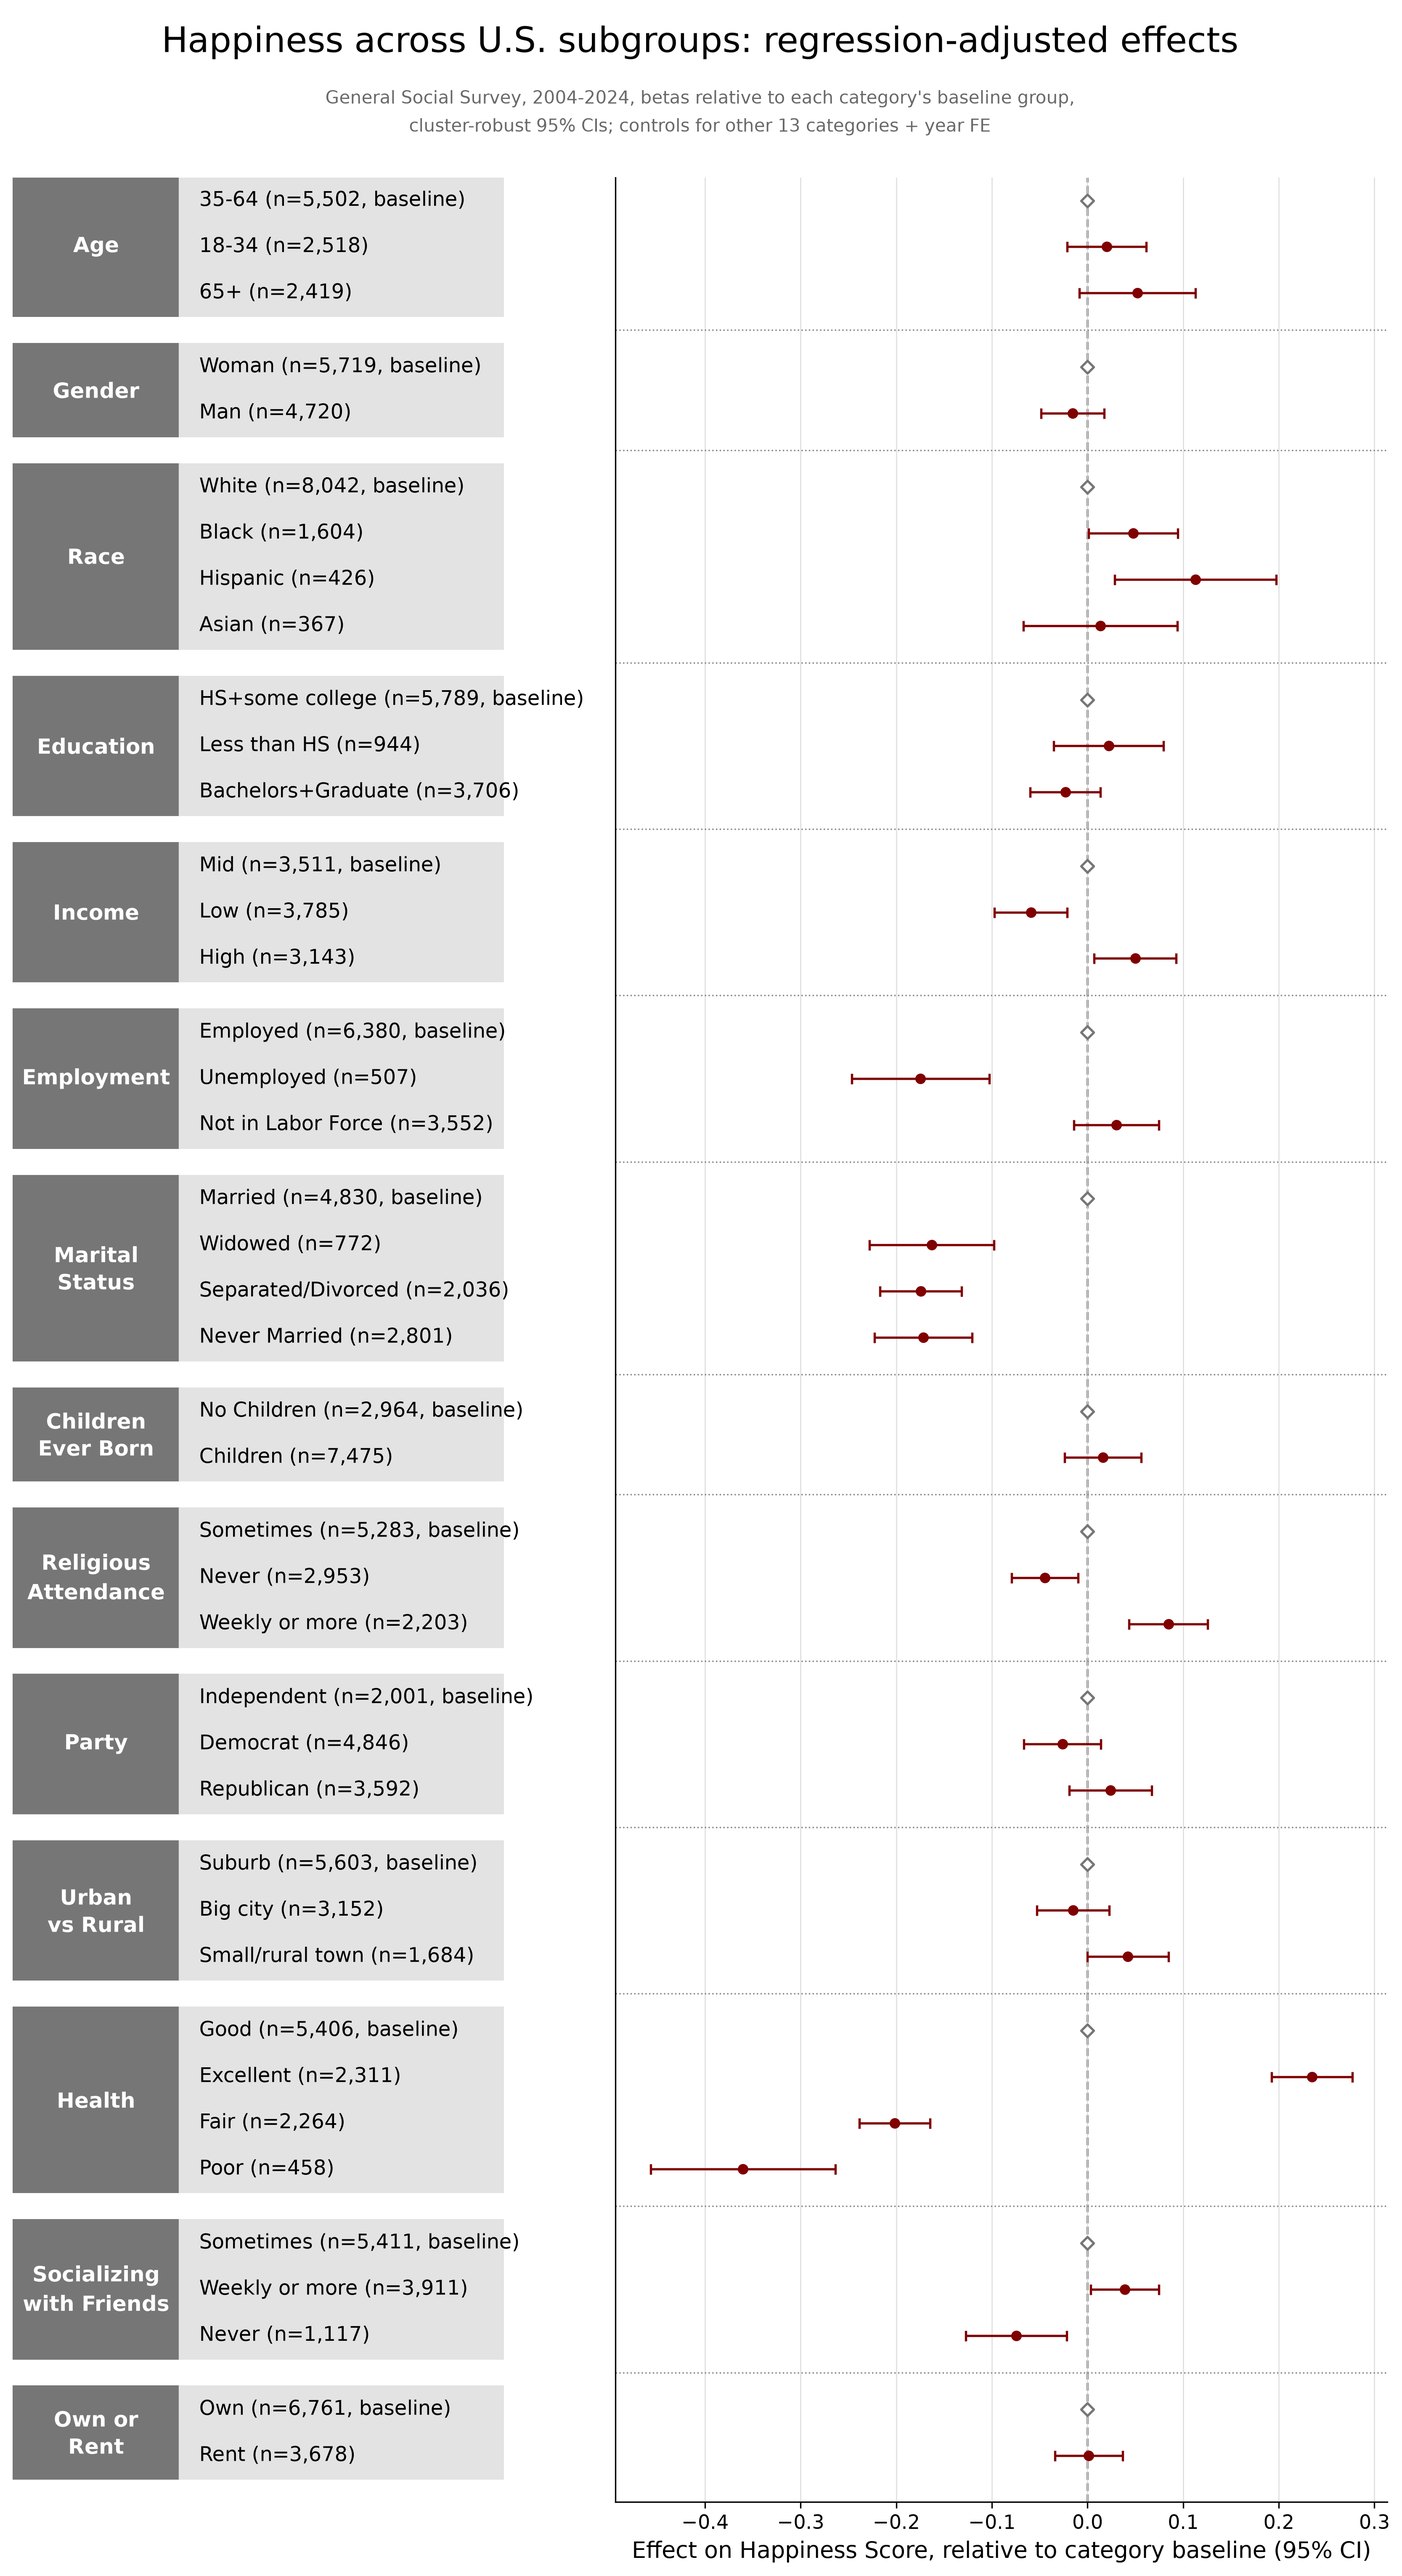
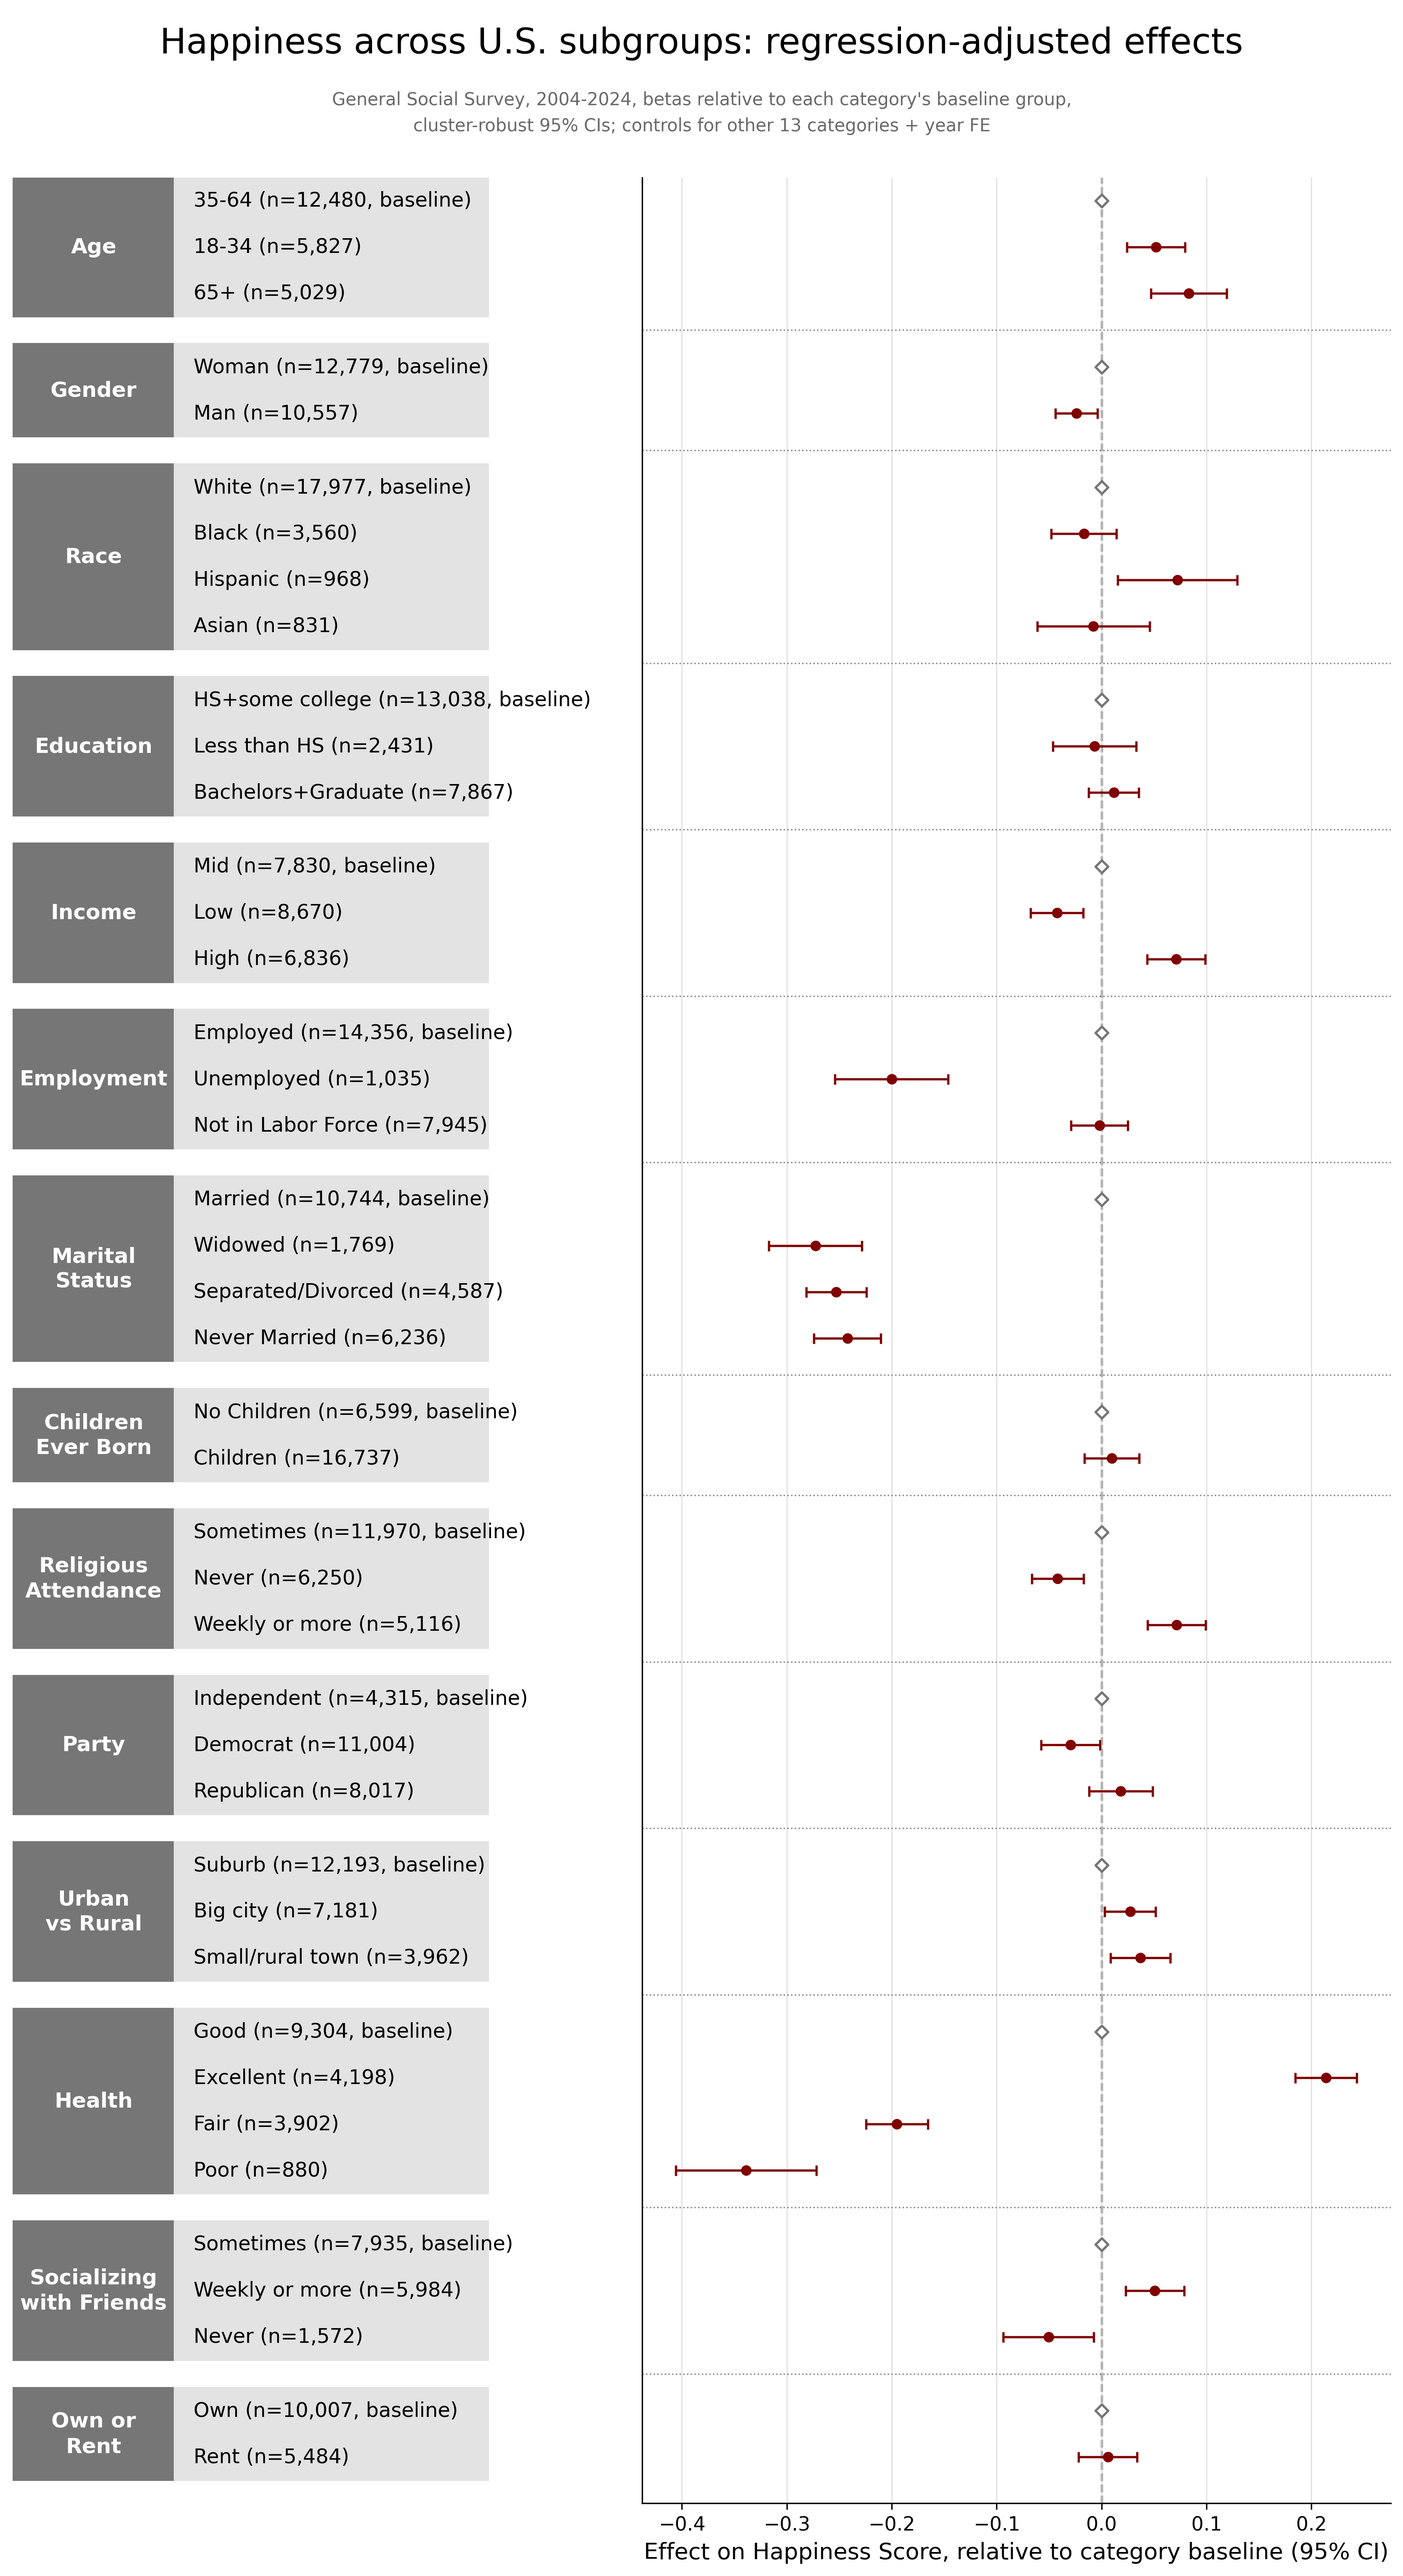
betas updates/organizing

diff --git a/code/ProcessGSS/1_clean_filter_GSS_raw.py b/code/ProcessGSS/1_clean_filter_GSS_raw.py
@@ -1,10 +1,21 @@
 """
 Author: Hannah Lybbert, assisted by Claude
 Date created: 2026-07-23
-Last updated: 2026-07-23
+Last updated: 2026-08-06
 Purpose: Filter the raw GSS 1974-2024 file to 2004-2024 and keep only the raw
          variables needed for the descriptive analysis (issue #5). Values are kept
          as their original GSS codes; bucketing/recoding happens in later scripts.
+
+         Also adds DWELOWN_IAP / SOCFREND_IAP / HEALTH_IAP boolean columns (added
+         2026-08-06, per why_N_drop.py + run_betas_regression.R): these three
+         questions are only administered to a rotating subset of respondents each
+         wave, and the raw SAS file distinguishes "Inapplicable" (its 'I' special-
+         missing code, i.e. not administered) from genuine "Don't Know"/"No Answer"/
+         "Skipped" ('D'/'N'/'S'). The default read below collapses all of those to
+         plain NaN like every other variable (unchanged behavior, so existing
+         consumers of GSS_main.csv aren't affected); the extra columns are a second,
+         narrow read with pyreadstat's user_missing=True just to recover which NaNs
+         were specifically "not administered", merged in by (ID, YEAR).
 """
 
 import os
@@ -32,11 +43,27 @@ RAW_VARS = [
     "WTSSNRPS", "VPSU", "VSTRAT",
 ]
 
+# Ballot/module questions where "not administered" (SAS special-missing code 'I',
+# Inapplicable) should be told apart from genuine nonresponse ('D'/'N'/'S').
+IAP_FLAG_VARS = ["DWELOWN", "SOCFREND", "HEALTH"]
+
 
 def load_data(file_path, usecols):
     """Load only the requested columns from the raw SAS file."""
     df, _ = pyreadstat.read_sas7bdat(file_path, usecols=usecols)
     return df
+
+
+def load_iap_flags(file_path, iap_vars):
+    """Read iap_vars with SAS user-defined missing codes preserved, and return one
+    boolean column per variable (True where the code is 'I' = Inapplicable, i.e. the
+    respondent wasn't administered the question at all), keyed by ID and YEAR."""
+    usecols = ["ID", "YEAR"] + iap_vars
+    df, _ = pyreadstat.read_sas7bdat(file_path, usecols=usecols, user_missing=True)
+    flags = df[["ID", "YEAR"]].copy()
+    for var in iap_vars:
+        flags[f"{var}_IAP"] = df[var] == "I"
+    return flags
 
 
 def filter_years(df, min_year, max_year):
@@ -59,6 +86,10 @@ def main():
     df = load_data(RAW_FILE, RAW_VARS)
     df = filter_years(df, MIN_YEAR, MAX_YEAR)
     df_out = select_output_columns(df, RAW_VARS)
+
+    iap_flags = load_iap_flags(RAW_FILE, IAP_FLAG_VARS)
+    df_out = df_out.merge(iap_flags, on=["ID", "YEAR"], how="left")
+
     save_data(df_out, OUTPUT_FILE)
     print(f"Wrote {len(df_out)} rows and {len(df_out.columns)} columns to {OUTPUT_FILE}")
 

diff --git a/output/descriptives/betas_plot/GSS_betas_table.md b/output/descriptives/betas_plot/GSS_betas_table.md
@@ -5,45 +5,45 @@ cluster-robust 95% CIs; controls for other 13 categories + year FE
 
 | Category | Subgroup | N | Beta | SE | 95% CI |
 |---|---|---|---|---|---|
-| Age | 35-64 (baseline) | 5,502 | 0.000 | - | - |
-|  | 18-34 | 2,518 | 0.020 | 0.021 | (-0.021, 0.061) |
-|  | 65+ | 2,419 | 0.052 | 0.031 | (-0.009, 0.113) |
-| Gender | Woman (baseline) | 5,719 | 0.000 | - | - |
-|  | Man | 4,720 | -0.016 | 0.017 | (-0.049, 0.017) |
-| Race | White (baseline) | 8,042 | 0.000 | - | - |
-|  | Black | 1,604 | 0.048 | 0.024 | (0.001, 0.094) |
-|  | Hispanic | 426 | 0.113 | 0.043 | (0.028, 0.197) |
-|  | Asian | 367 | 0.013 | 0.041 | (-0.067, 0.094) |
-| Education | HS+some college (baseline) | 5,789 | 0.000 | - | - |
-|  | Less than HS | 944 | 0.022 | 0.029 | (-0.035, 0.080) |
-|  | Bachelors+Graduate | 3,706 | -0.023 | 0.019 | (-0.060, 0.014) |
-| Income | Mid (baseline) | 3,511 | 0.000 | - | - |
-|  | Low | 3,785 | -0.059 | 0.019 | (-0.097, -0.021) |
-|  | High | 3,143 | 0.050 | 0.022 | (0.007, 0.093) |
-| Employment | Employed (baseline) | 6,380 | 0.000 | - | - |
-|  | Unemployed | 507 | -0.175 | 0.037 | (-0.247, -0.103) |
-|  | Not in Labor Force | 3,552 | 0.030 | 0.023 | (-0.014, 0.075) |
-| Marital Status | Married (baseline) | 4,830 | 0.000 | - | - |
-|  | Widowed | 772 | -0.163 | 0.033 | (-0.228, -0.098) |
-|  | Separated/Divorced | 2,036 | -0.174 | 0.022 | (-0.217, -0.132) |
-|  | Never Married | 2,801 | -0.172 | 0.026 | (-0.223, -0.121) |
-| Children Ever Born | No Children (baseline) | 2,964 | 0.000 | - | - |
-|  | Children | 7,475 | 0.016 | 0.020 | (-0.024, 0.056) |
-| Religious Attendance | Sometimes (baseline) | 5,283 | 0.000 | - | - |
-|  | Never | 2,953 | -0.045 | 0.018 | (-0.079, -0.010) |
-|  | Weekly or more | 2,203 | 0.085 | 0.021 | (0.044, 0.126) |
-| Party | Independent (baseline) | 2,001 | 0.000 | - | - |
-|  | Democrat | 4,846 | -0.026 | 0.021 | (-0.067, 0.014) |
-|  | Republican | 3,592 | 0.024 | 0.022 | (-0.019, 0.067) |
-| Urban vs Rural | Suburb (baseline) | 5,603 | 0.000 | - | - |
-|  | Big city | 3,152 | -0.015 | 0.019 | (-0.053, 0.023) |
-|  | Small/rural town | 1,684 | 0.042 | 0.022 | (-0.000, 0.085) |
-| Health | Good (baseline) | 5,406 | 0.000 | - | - |
-|  | Excellent | 2,311 | 0.235 | 0.021 | (0.193, 0.277) |
-|  | Fair | 2,264 | -0.202 | 0.019 | (-0.239, -0.165) |
-|  | Poor | 458 | -0.360 | 0.049 | (-0.457, -0.264) |
-| Socializing with Friends | Sometimes (baseline) | 5,411 | 0.000 | - | - |
-|  | Weekly or more | 3,911 | 0.039 | 0.018 | (0.003, 0.075) |
-|  | Never | 1,117 | -0.074 | 0.027 | (-0.127, -0.022) |
-| Own or Rent | Own (baseline) | 6,761 | 0.000 | - | - |
-|  | Rent | 3,678 | 0.001 | 0.018 | (-0.034, 0.037) |
+| Age | 35-64 (baseline) | 12,480 | 0.000 | - | - |
+|  | 18-34 | 5,827 | 0.052 | 0.014 | (0.024, 0.079) |
+|  | 65+ | 5,029 | 0.083 | 0.018 | (0.047, 0.119) |
+| Gender | Woman (baseline) | 12,779 | 0.000 | - | - |
+|  | Man | 10,557 | -0.024 | 0.010 | (-0.044, -0.004) |
+| Race | White (baseline) | 17,977 | 0.000 | - | - |
+|  | Black | 3,560 | -0.017 | 0.016 | (-0.048, 0.014) |
+|  | Hispanic | 968 | 0.072 | 0.029 | (0.015, 0.129) |
+|  | Asian | 831 | -0.008 | 0.027 | (-0.061, 0.046) |
+| Education | HS+some college (baseline) | 13,038 | 0.000 | - | - |
+|  | Less than HS | 2,431 | -0.007 | 0.020 | (-0.046, 0.033) |
+|  | Bachelors+Graduate | 7,867 | 0.012 | 0.012 | (-0.012, 0.036) |
+| Income | Mid (baseline) | 7,830 | 0.000 | - | - |
+|  | Low | 8,670 | -0.043 | 0.013 | (-0.068, -0.017) |
+|  | High | 6,836 | 0.071 | 0.014 | (0.044, 0.099) |
+| Employment | Employed (baseline) | 14,356 | 0.000 | - | - |
+|  | Unemployed | 1,035 | -0.200 | 0.028 | (-0.254, -0.146) |
+|  | Not in Labor Force | 7,945 | -0.002 | 0.014 | (-0.029, 0.025) |
+| Marital Status | Married (baseline) | 10,744 | 0.000 | - | - |
+|  | Widowed | 1,769 | -0.273 | 0.023 | (-0.317, -0.229) |
+|  | Separated/Divorced | 4,587 | -0.253 | 0.015 | (-0.282, -0.224) |
+|  | Never Married | 6,236 | -0.242 | 0.016 | (-0.274, -0.210) |
+| Children Ever Born | No Children (baseline) | 6,599 | 0.000 | - | - |
+|  | Children | 16,737 | 0.010 | 0.013 | (-0.017, 0.036) |
+| Religious Attendance | Sometimes (baseline) | 11,970 | 0.000 | - | - |
+|  | Never | 6,250 | -0.042 | 0.013 | (-0.066, -0.017) |
+|  | Weekly or more | 5,116 | 0.071 | 0.014 | (0.044, 0.099) |
+| Party | Independent (baseline) | 4,315 | 0.000 | - | - |
+|  | Democrat | 11,004 | -0.030 | 0.014 | (-0.058, -0.001) |
+|  | Republican | 8,017 | 0.018 | 0.015 | (-0.012, 0.049) |
+| Urban vs Rural | Suburb (baseline) | 12,193 | 0.000 | - | - |
+|  | Big city | 7,181 | 0.027 | 0.012 | (0.003, 0.052) |
+|  | Small/rural town | 3,962 | 0.037 | 0.014 | (0.009, 0.065) |
+| Health | Good (baseline) | 9,304 | 0.000 | - | - |
+|  | Excellent | 4,198 | 0.214 | 0.015 | (0.185, 0.243) |
+|  | Fair | 3,902 | -0.195 | 0.015 | (-0.225, -0.166) |
+|  | Poor | 880 | -0.339 | 0.034 | (-0.406, -0.272) |
+| Socializing with Friends | Sometimes (baseline) | 7,935 | 0.000 | - | - |
+|  | Weekly or more | 5,984 | 0.051 | 0.014 | (0.023, 0.079) |
+|  | Never | 1,572 | -0.051 | 0.022 | (-0.094, -0.007) |
+| Own or Rent | Own (baseline) | 10,007 | 0.000 | - | - |
+|  | Rent | 5,484 | 0.006 | 0.014 | (-0.022, 0.034) |
